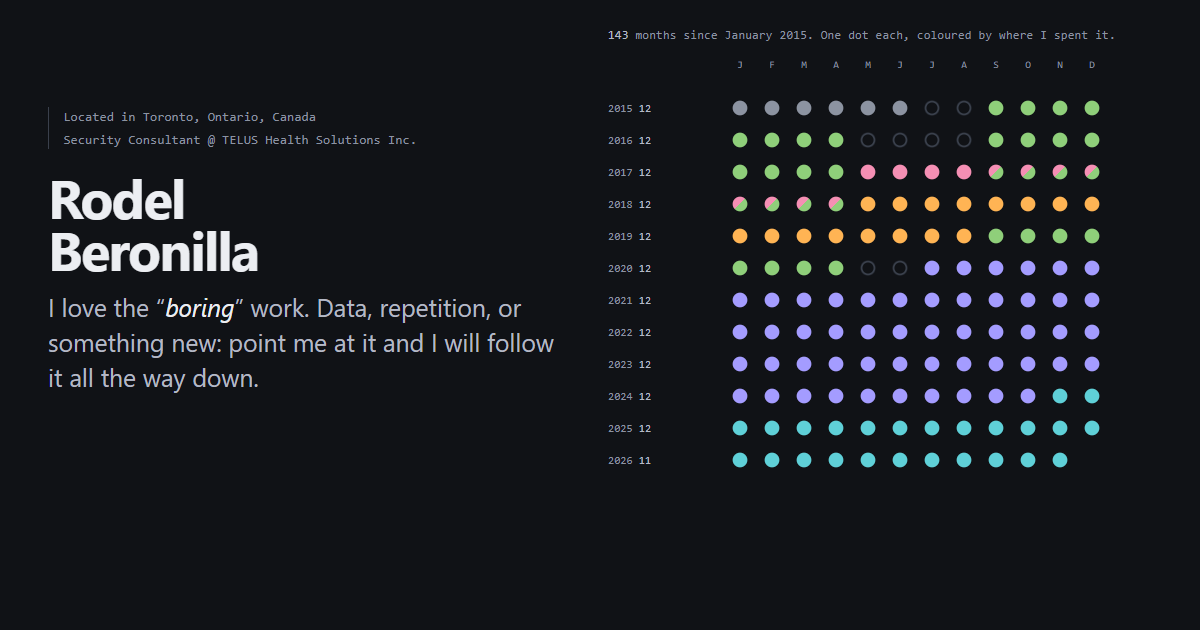
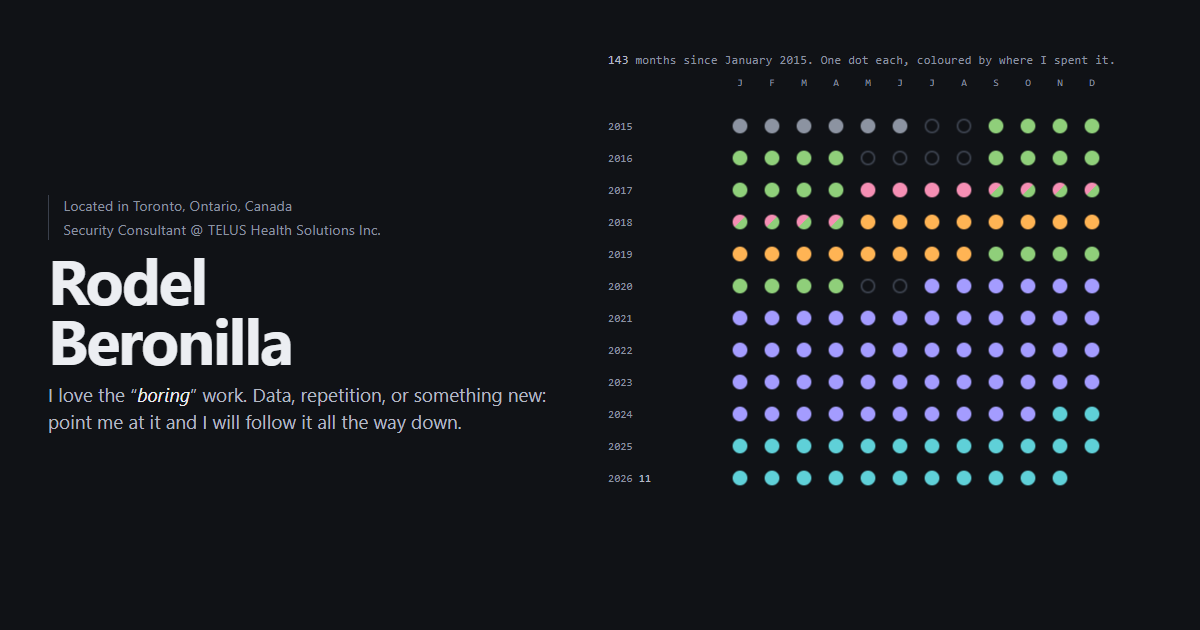
feat(deploy): render og.png from the hero and refresh security.txt each deploy
Adds an RFC 9116 security.txt pointing at the contact form; deploy.py moves its Expires a year
ahead on every deploy, copies sub-folders, and screenshots the current hero into og.png so the
share image can't drift. CLAUDE.md records that this site ships straight to main.

Claude-Session: https://claude.ai/code/session_01HpsUhfHfpNmKf5GR6ja9Rb

diff --git a/scripts/deploy.py b/scripts/deploy.py
@@ -1,17 +1,22 @@
 #!/usr/bin/env python3
 """Deploy site/ to the docroot.
 
-Copies every file, stamps the asset links in the HTML with a content hash
-(style.css?v=abc123...) so browsers fetch new versions immediately, then
+Renders the share image (site/og.png) from the current hero, copies every file and folder,
+stamps the asset links in the HTML with a content hash (style.css?v=abc123...) so browsers
+fetch new versions immediately, gives security.txt a fresh expiry a year out, then
 smoke-tests the live root. The repo's own HTML stays unstamped.
 
 Usage: python scripts/deploy.py [docroot]   (default C:/srv/beronilla.rodeo/site)
 """
+import datetime
+import functools
 import hashlib
+import http.server
 import pathlib
 import re
 import shutil
 import sys
+import threading
 import urllib.request
 
 ROOT = pathlib.Path(__file__).resolve().parents[1]
@@ -21,6 +26,16 @@ URL = "https://beronilla.rodeo/"
 ASSETS = ("style.css", "app.js", "favicon.svg")
 # A browser-shaped agent: an edge bot filter in front of the site refuses the default one.
 UA = {"User-Agent": "Mozilla/5.0 (deploy smoke test; +https://beronilla.rodeo/)"}
+
+# The share image is the hero alone: no header, buttons, controls or floating chrome.
+OG_CSS = """
+.top, .cta, .pivot-ctrl, .pivot-hl, .a11y, .swipe, .sheet, .skip { display: none !important; }
+html, body { overflow: hidden !important; }
+.js body { height: 630px !important; }
+#top { padding: 32px 0 !important; border-top: 0 !important; align-items: center !important; }
+#top .page-in { padding: 0 48px !important; margin: auto 0 !important; align-self: center !important; }
+.hero-grid { align-items: center !important; }
+"""
 
 
 def digest(name):
@@ -33,16 +48,70 @@ def stamp(html):
     return re.sub(pattern, lambda m: f"{m.group(1)}{m.group(2)}{m.group(3)}?v={versions[m.group(3)]}{m.group(4)}", html)
 
 
+class QuietHandler(http.server.SimpleHTTPRequestHandler):
+    def log_message(self, *args):
+        pass
+
+
+def render_og():
+    """Screenshot the hero from the local files into site/og.png, 1200x630, dark theme."""
+    try:
+        from playwright.sync_api import sync_playwright
+    except ImportError:
+        print("og.png not rendered: Playwright is not installed; keeping the existing image")
+        return
+    srv = http.server.ThreadingHTTPServer(("127.0.0.1", 0), functools.partial(QuietHandler, directory=str(SITE)))
+    threading.Thread(target=srv.serve_forever, daemon=True).start()
+    try:
+        with sync_playwright() as p:
+            browser = p.chromium.launch(channel="chrome")
+            page = browser.new_page(viewport={"width": 1200, "height": 630}, color_scheme="dark", reduced_motion="reduce")
+            page.add_init_script("try{localStorage.setItem('theme','dark');localStorage.removeItem('a11y')}catch(e){}")
+            page.goto(f"http://127.0.0.1:{srv.server_address[1]}/index.html#top", wait_until="networkidle")
+            page.add_style_tag(content=OG_CSS)
+            page.evaluate("window.dispatchEvent(new Event('resize'))")
+            page.wait_for_timeout(1200)
+            dots = page.evaluate("document.querySelectorAll('#pivot-plot .dot').length")
+            if dots < 100:
+                print("og.png not rendered: the hero drew only", dots, "dots; keeping the existing image")
+            else:
+                page.screenshot(path=str(SITE / "og.png"))
+                print("og.png rendered from the hero,", dots, "dots")
+            browser.close()
+    except Exception as e:  # noqa: BLE001
+        print("og.png not rendered:", type(e).__name__, e, "- keeping the existing image")
+    finally:
+        srv.shutdown()
+
+
+def refresh_security_txt():
+    """RFC 9116 asks for an Expires under a year out; each deploy moves it a year ahead."""
+    path = DOCROOT / ".well-known" / "security.txt"
+    if not path.exists():
+        return
+    until = (datetime.datetime.now(datetime.timezone.utc) + datetime.timedelta(days=365)).strftime("%Y-%m-%dT%H:%M:%SZ")
+    text = re.sub(r"(?m)^Expires: .*$", "Expires: " + until, path.read_text(encoding="utf-8"))
+    path.write_text(text, encoding="utf-8", newline="\n")
+    print("security.txt expires", until)
+
+
 def main():
+    render_og()
     DOCROOT.mkdir(parents=True, exist_ok=True)
+    count = 0
     for f in SITE.iterdir():
         if f.is_file():
             shutil.copy2(f, DOCROOT / f.name)
+            count += 1
+        elif f.is_dir():
+            shutil.copytree(f, DOCROOT / f.name, dirs_exist_ok=True)
+            count += sum(1 for x in f.rglob("*") if x.is_file())
     for page in ("index.html", "404.html", "sent.html"):
         src = SITE / page
         if src.exists():
             (DOCROOT / page).write_text(stamp(src.read_text(encoding="utf-8")), encoding="utf-8", newline="\n")
-    print("deployed", len([f for f in SITE.iterdir() if f.is_file()]), "files to", DOCROOT)
+    refresh_security_txt()
+    print("deployed", count, "files to", DOCROOT)
 
     # Smoke test the live site: the page must be fresh and every stamped asset must resolve.
     try:

diff --git a/CLAUDE.md b/CLAUDE.md
@@ -5,6 +5,7 @@ Management repo for hosting a web app. Read `.sdlc/state.md` at session start an
 ## Rules
 
 - `main` is production and protected. Feature branch → `preprod` → validate preview → PR to `main`. Never push to `main` directly.
+- Exception, by the owner's choice: the beronilla.rodeo site (`site/`, `contact-relay/`, `scripts/deploy.py`, `server-config/`) ships straight to `main`. Deploy it only with `python scripts/deploy.py`.
 - Secrets live in `.env` (gitignored) or GitHub Actions secrets. Never in tracked files.
 - Every PR links an issue (`Closes #XX`) and carries a `release:*` label.
 - Runbooks and ADRs go in `docs/`.
